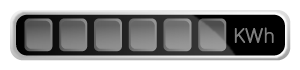
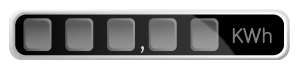
Kwh counter moved for better allignment

Changed region(s): [[0.03, 0.2, 0.99, 0.8571], [0.87, 0.8571, 0.93, 0.8857]]

diff --git a/Team_Charge_Interface/Mainwindow.py b/Team_Charge_Interface/Mainwindow.py
@@ -84,8 +84,8 @@ class MainWindow():
         self.canvas_text_power_right = self.mainwindow_canvas.create_text(600,247, text = str(round((self.spot2.power/1000),1))+ " kW", font=("Helvetica",16, "bold"), fill= "white", state="hidden")
 
         #Time info, hidden by default
-        self.canvas_text_time_left = self.mainwindow_canvas.create_text(213,266, text = "Placeholder", font=("Helvetica",15), fill="white", state="hidden")
-        self.canvas_text_time_right = self.mainwindow_canvas.create_text(600,266, text = "Placeholder", font=("Helvetica",15), fill="white", state="hidden")
+        self.canvas_text_time_left = self.mainwindow_canvas.create_text(213,267, text = "Placeholder", font=("Helvetica",15), fill="white", state="hidden")
+        self.canvas_text_time_right = self.mainwindow_canvas.create_text(600,267, text = "Placeholder", font=("Helvetica",15), fill="white", state="hidden")
 
         #Present card
         self.canvas_image_present_card_left = self.mainwindow_canvas.create_image(207,400, image=self.tk_present_card_image)
@@ -96,8 +96,8 @@ class MainWindow():
         self.canvas_image_kwh_counter_right = self.mainwindow_canvas.create_image(594,400, image=self.tk_kwh_counter_image, state="hidden")
 
         #kwh text info, hidden by default
-        self.canvas_text_kwh_left = self.mainwindow_canvas.create_text(182,400, text= "placeholder", font=("Helvetica",16, "bold"), fill= "white", state="hidden")
-        self.canvas_text_kwh_right = self.mainwindow_canvas.create_text(569,400, text= "placeholder", font=("Helvetica",16, "bold"), fill= "white", state="hidden")
+        self.canvas_text_kwh_left = self.mainwindow_canvas.create_text(175,400, text= "placeholder", font=("Helvetica",16, "bold"), fill= "white", state="hidden")
+        self.canvas_text_kwh_right = self.mainwindow_canvas.create_text(564,400, text= "placeholder", font=("Helvetica",16, "bold"), fill= "white", state="hidden")
 
         #Activate frame drawer
         self.mainwindow_canvas.after(50,self.draw_frame)
@@ -112,6 +112,12 @@ class MainWindow():
             self.mainwindow_canvas.itemconfig(self.canvas_image_present_card_left, state="hidden")
             self.mainwindow_canvas.itemconfig(self.canvas_image_kwh_counter_left, state="normal")
             self.mainwindow_canvas.itemconfig(self.canvas_text_kwh_left, state="normal")
+            if( (int(time.time()) - self.spot1.start_time) > 14400):
+                self.mainwindow_canvas.itemconfig(self.canvas_image_red_light_left, state="normal")
+            elif(self.spot1.power > 1):
+                self.mainwindow_canvas.itemconfig(self.canvas_image_green_light_left, state="normal")
+            elif(self.spot1.power < 1):
+                self.mainwindow_canvas.itemconfig(self.canvas_image_orange_light_left, state="normal")
         else:
             self.mainwindow_canvas.itemconfig(self.canvas_image_pointer_left, state="hidden")
             self.mainwindow_canvas.itemconfig(self.canvas_text_power_left, state="hidden")
@@ -120,6 +126,10 @@ class MainWindow():
             self.mainwindow_canvas.itemconfig(self.canvas_image_present_card_left, state="normal")
             self.mainwindow_canvas.itemconfig(self.canvas_image_kwh_counter_left, state="hidden")
             self.mainwindow_canvas.itemconfig(self.canvas_text_kwh_left, state="hidden")
+            self.mainwindow_canvas.itemconfig(self.canvas_image_red_light_left, state="hidden")
+            self.mainwindow_canvas.itemconfig(self.canvas_image_orange_light_left, state="hidden")
+            self.mainwindow_canvas.itemconfig(self.canvas_image_green_light_left, state="hidden")
+
 
         if (self.spot2.is_active):
             self.mainwindow_canvas.itemconfig(self.canvas_image_pointer_right, state="normal")
@@ -129,14 +139,23 @@ class MainWindow():
             self.mainwindow_canvas.itemconfig(self.canvas_image_present_card_right, state="hidden")
             self.mainwindow_canvas.itemconfig(self.canvas_image_kwh_counter_right, state="normal")
             self.mainwindow_canvas.itemconfig(self.canvas_text_kwh_right, state="normal")
+            if( (int(time.time()) - self.spot2.start_time) > 14400):
+                self.mainwindow_canvas.itemconfig(self.canvas_image_red_light_right, state="normal")
+            elif(self.spot2.power > 1):
+                self.mainwindow_canvas.itemconfig(self.canvas_image_green_light_right, state="normal")
+            elif(self.spot2.power < 1):
+                self.mainwindow_canvas.itemconfig(self.canvas_image_orange_light_right, state="normal")
         else:
             self.mainwindow_canvas.itemconfig(self.canvas_image_pointer_right, state="hidden")
             self.mainwindow_canvas.itemconfig(self.canvas_text_power_right, state="hidden")
             self.mainwindow_canvas.itemconfig(self.canvas_image_foreground_right, state="hidden")
             self.mainwindow_canvas.itemconfig(self.canvas_text_time_right, state="hidden")
-            self.mainwindow_canvas.itemconfig(self.canvas_image_present_card_right, state="hidden")
-            self.mainwindow_canvas.itemconfig(self.canvas_image_kwh_counter_right, state="normal")
-            self.mainwindow_canvas.itemconfig(self.canvas_text_kwh_right, state="normal")
+            self.mainwindow_canvas.itemconfig(self.canvas_image_present_card_right, state="normal")
+            self.mainwindow_canvas.itemconfig(self.canvas_image_kwh_counter_right, state="hidden")
+            self.mainwindow_canvas.itemconfig(self.canvas_text_kwh_right, state="hidden")
+            self.mainwindow_canvas.itemconfig(self.canvas_image_red_light_right, state="hidden")
+            self.mainwindow_canvas.itemconfig(self.canvas_image_orange_light_right, state="hidden")
+            self.mainwindow_canvas.itemconfig(self.canvas_image_green_light_right, state="hidden")
 
 
         self.mainwindow_canvas.after(500, self.update_active_elements)
@@ -146,7 +165,7 @@ class MainWindow():
 
         #global
         self.mainwindow_canvas.itemconfig(self.canvas_text_global_time, text = time.strftime("%H:%M", time.localtime(time.time())))
-        self.mainwindow_canvas.itemconfig(self.canvas_text_global_date, text = time.strftime("%m-%d-%Y", time.localtime(time.time())))
+        self.mainwindow_canvas.itemconfig(self.canvas_text_global_date, text = time.strftime("%d-%m-%Y", time.localtime(time.time())))
 
         
         #Left spot (1)
@@ -155,8 +174,8 @@ class MainWindow():
         self.rotated_pointer_image_left= ImageTk.PhotoImage(self.temp_rotate_image)
         self.mainwindow_canvas.itemconfig(self.canvas_image_pointer_left, image=self.rotated_pointer_image_left)
         self.mainwindow_canvas.itemconfig(self.canvas_text_power_left, text = str(round((self.spot1.power/1000),1)) + " kW")
-        self.mainwindow_canvas.itemconfig(self.canvas_text_time_left, text = str(int((time.time() - self.spot1.start_time) / 3600)) + ":" + str(int((time.time() - self.spot1.start_time) / 60)) + ":" + str(int((time.time() - self.spot1.start_time) % 60)))
-        self.mainwindow_canvas.itemconfig(self.canvas_text_kwh_left, text = str(int(self.spot1.kwh/100)) + "    " + str(int((self.spot1.kwh/10)%10)) + "    " + str(int(self.spot1.kwh%10)) + "         "  + str(int((self.spot1.kwh*10)%10)) + "    " + str(int((self.spot1.kwh*100)%10)))
+        self.mainwindow_canvas.itemconfig(self.canvas_text_time_left, text = str(int((time.time() - self.spot1.start_time) / 3600)) + ":" + str(int(((time.time() - self.spot1.start_time) / 60)%60)) + ":" + str(int((time.time() - self.spot1.start_time) % 60)))
+        self.mainwindow_canvas.itemconfig(self.canvas_text_kwh_left, text = str(int(self.spot1.kwh/100)) + "     " + str(int((self.spot1.kwh/10)%10)) + "     " + str(int(self.spot1.kwh%10)) + "     "  + str(int((self.spot1.kwh*10)%10)) + "     " + str(int((self.spot1.kwh*100)%10)))
         
                                           
         #Right spot (2)
@@ -165,8 +184,8 @@ class MainWindow():
         self.rotated_pointer_image_right= ImageTk.PhotoImage(self.temp_rotate_image)
         self.mainwindow_canvas.itemconfig(self.canvas_image_pointer_right, image=self.rotated_pointer_image_right)
         self.mainwindow_canvas.itemconfig(self.canvas_text_power_right, text = str(round((self.spot2.power/1000),1)) + " kW")
-        self.mainwindow_canvas.itemconfig(self.canvas_text_time_right, text = str(int((time.time() - self.spot2.start_time) / 3600)) + ":" + str(int((time.time() - self.spot2.start_time) / 60)) + ":" + str(int((time.time() - self.spot2.start_time) % 60)))
-        self.mainwindow_canvas.itemconfig(self.canvas_text_kwh_right, text = str(int(self.spot2.kwh/100)) + "    " + str(int((self.spot2.kwh/10)%10)) + "    " + str(int(self.spot2.kwh%10)) + "         " + str(int((self.spot2.kwh*10)%10)) + "    " + str(int((self.spot2.kwh*100)%10)))
+        self.mainwindow_canvas.itemconfig(self.canvas_text_time_right, text = str(int((time.time() - self.spot2.start_time) / 3600)) + ":" + str(int(((time.time() - self.spot2.start_time) / 60)%60)) + ":" + str(int((time.time() - self.spot2.start_time) % 60)))
+        self.mainwindow_canvas.itemconfig(self.canvas_text_kwh_right, text = str(int(self.spot2.kwh/100)) + "     " + str(int((self.spot2.kwh/10)%10)) + "     " + str(int(self.spot2.kwh%10)) + "     " + str(int((self.spot2.kwh*10)%10)) + "     " + str(int((self.spot2.kwh*100)%10)))
 
         self.mainwindow_canvas.after(500, self.draw_frame)
         
